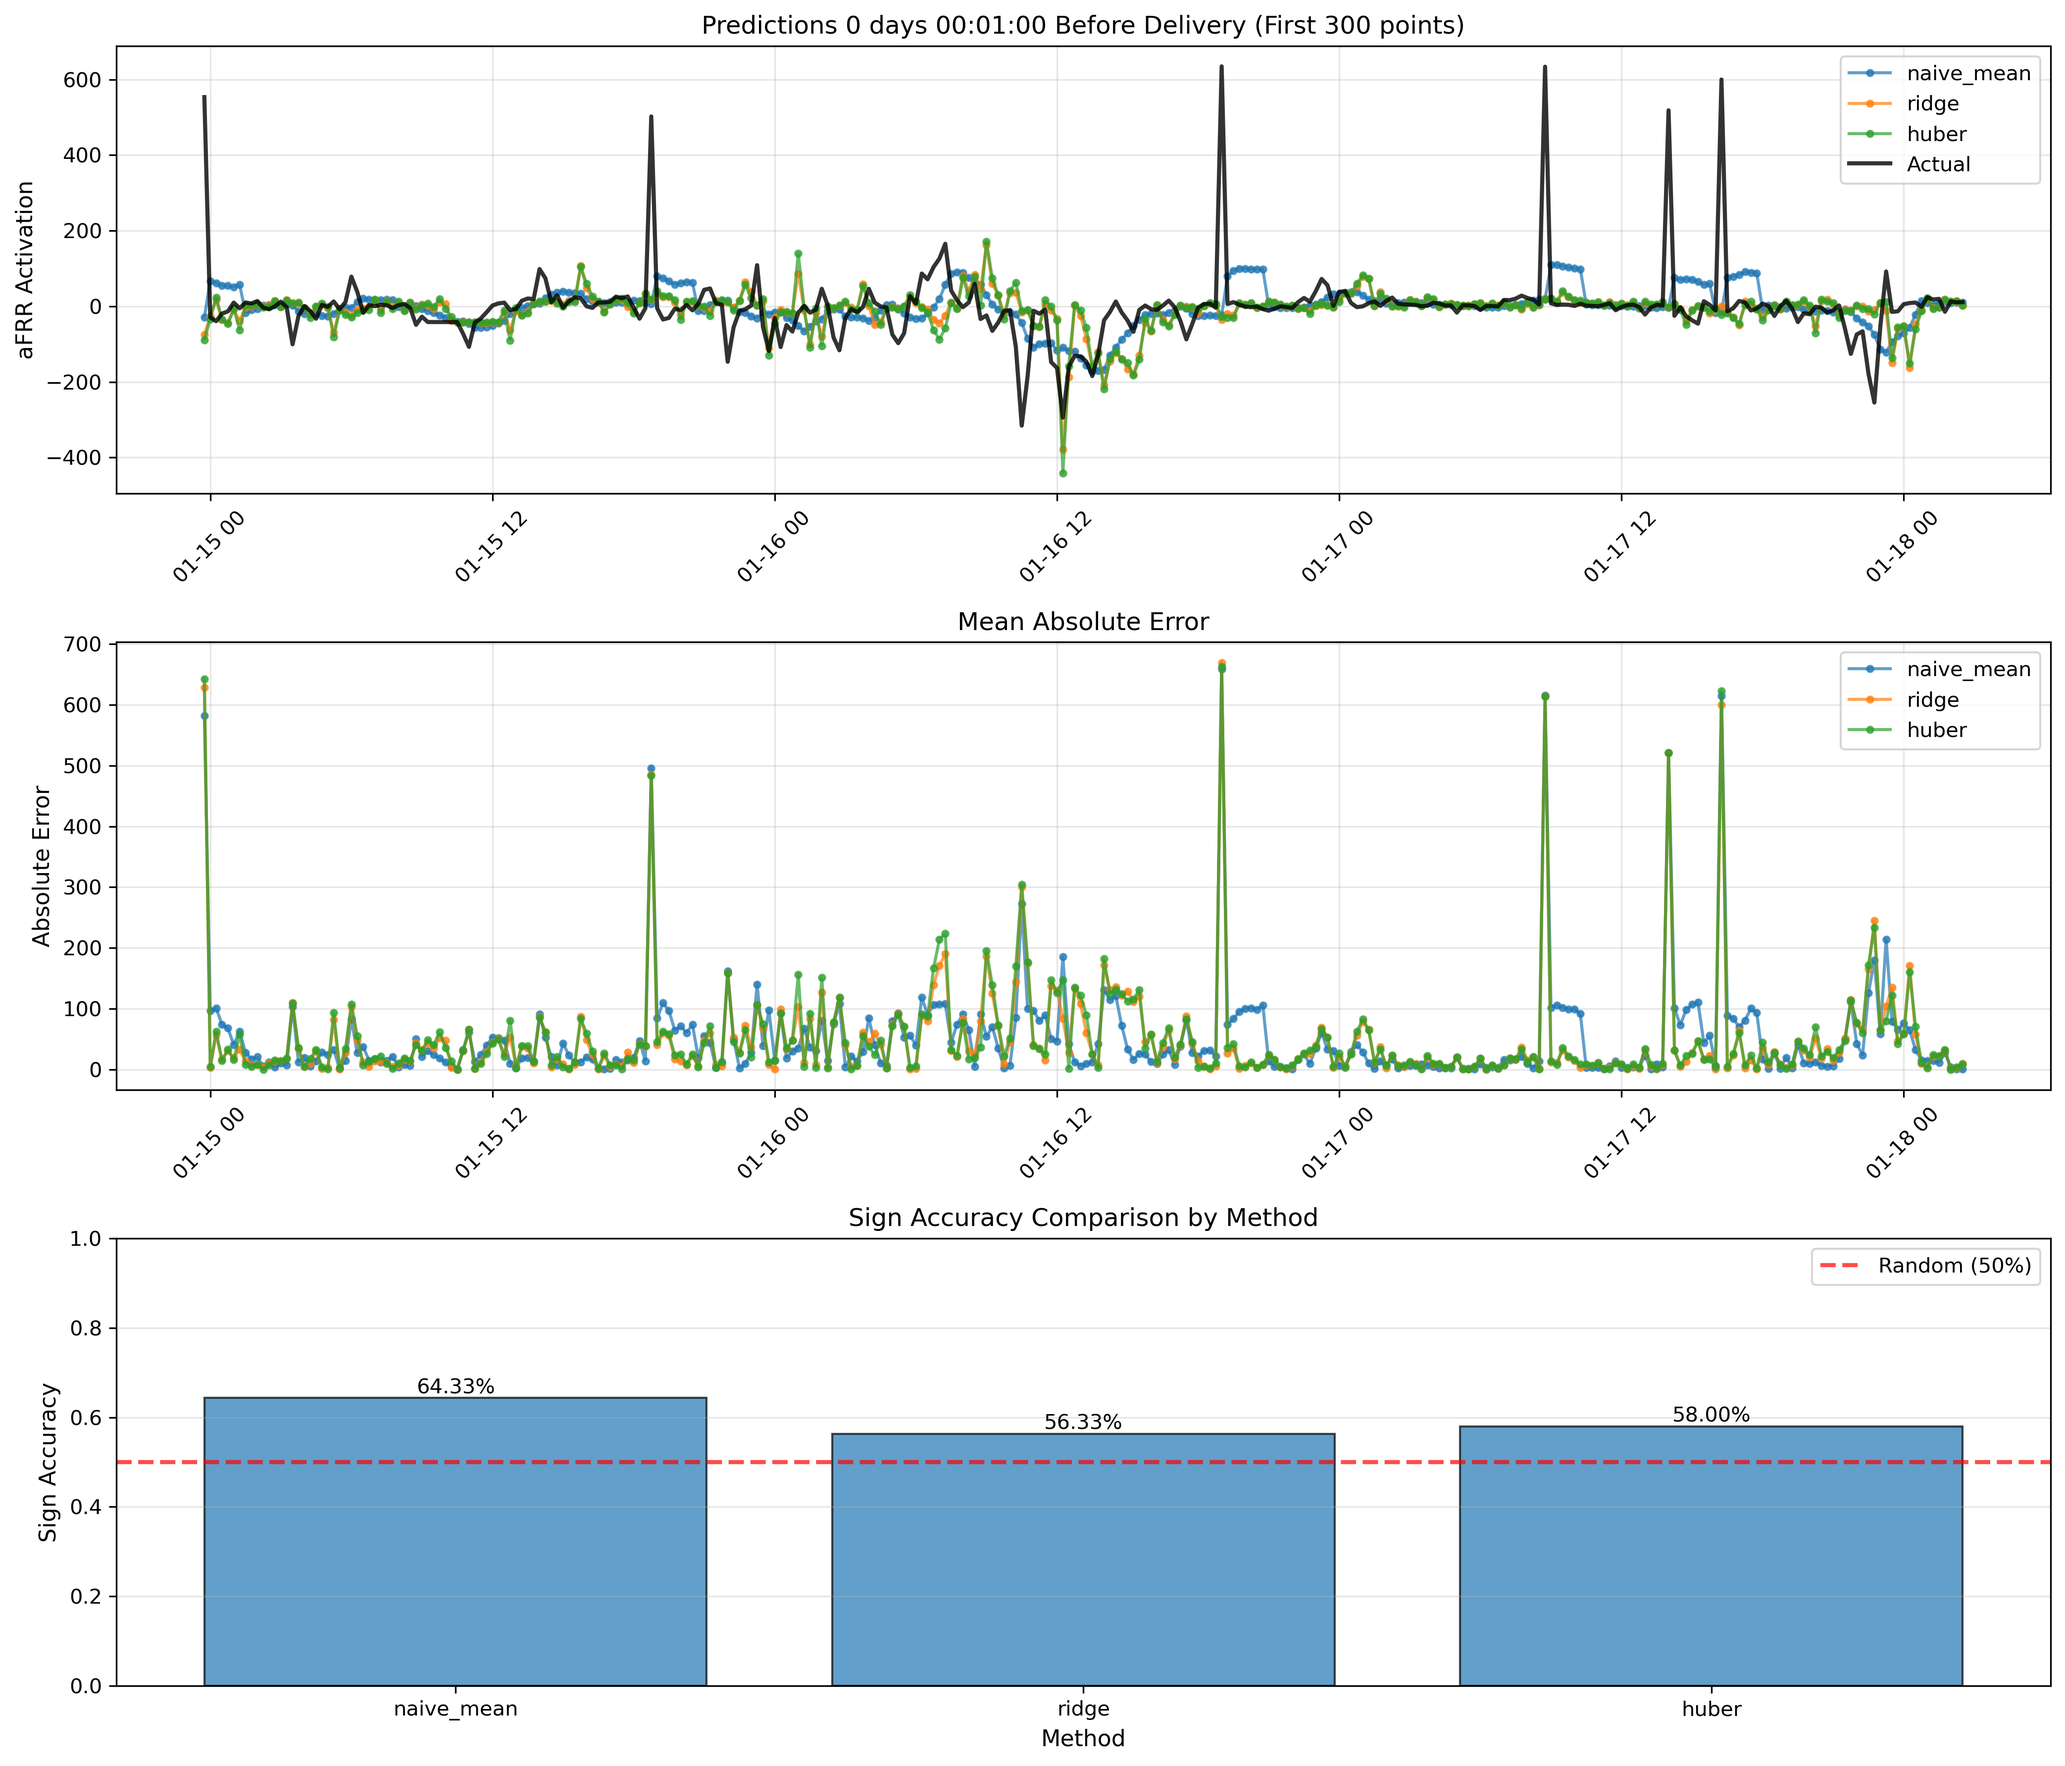
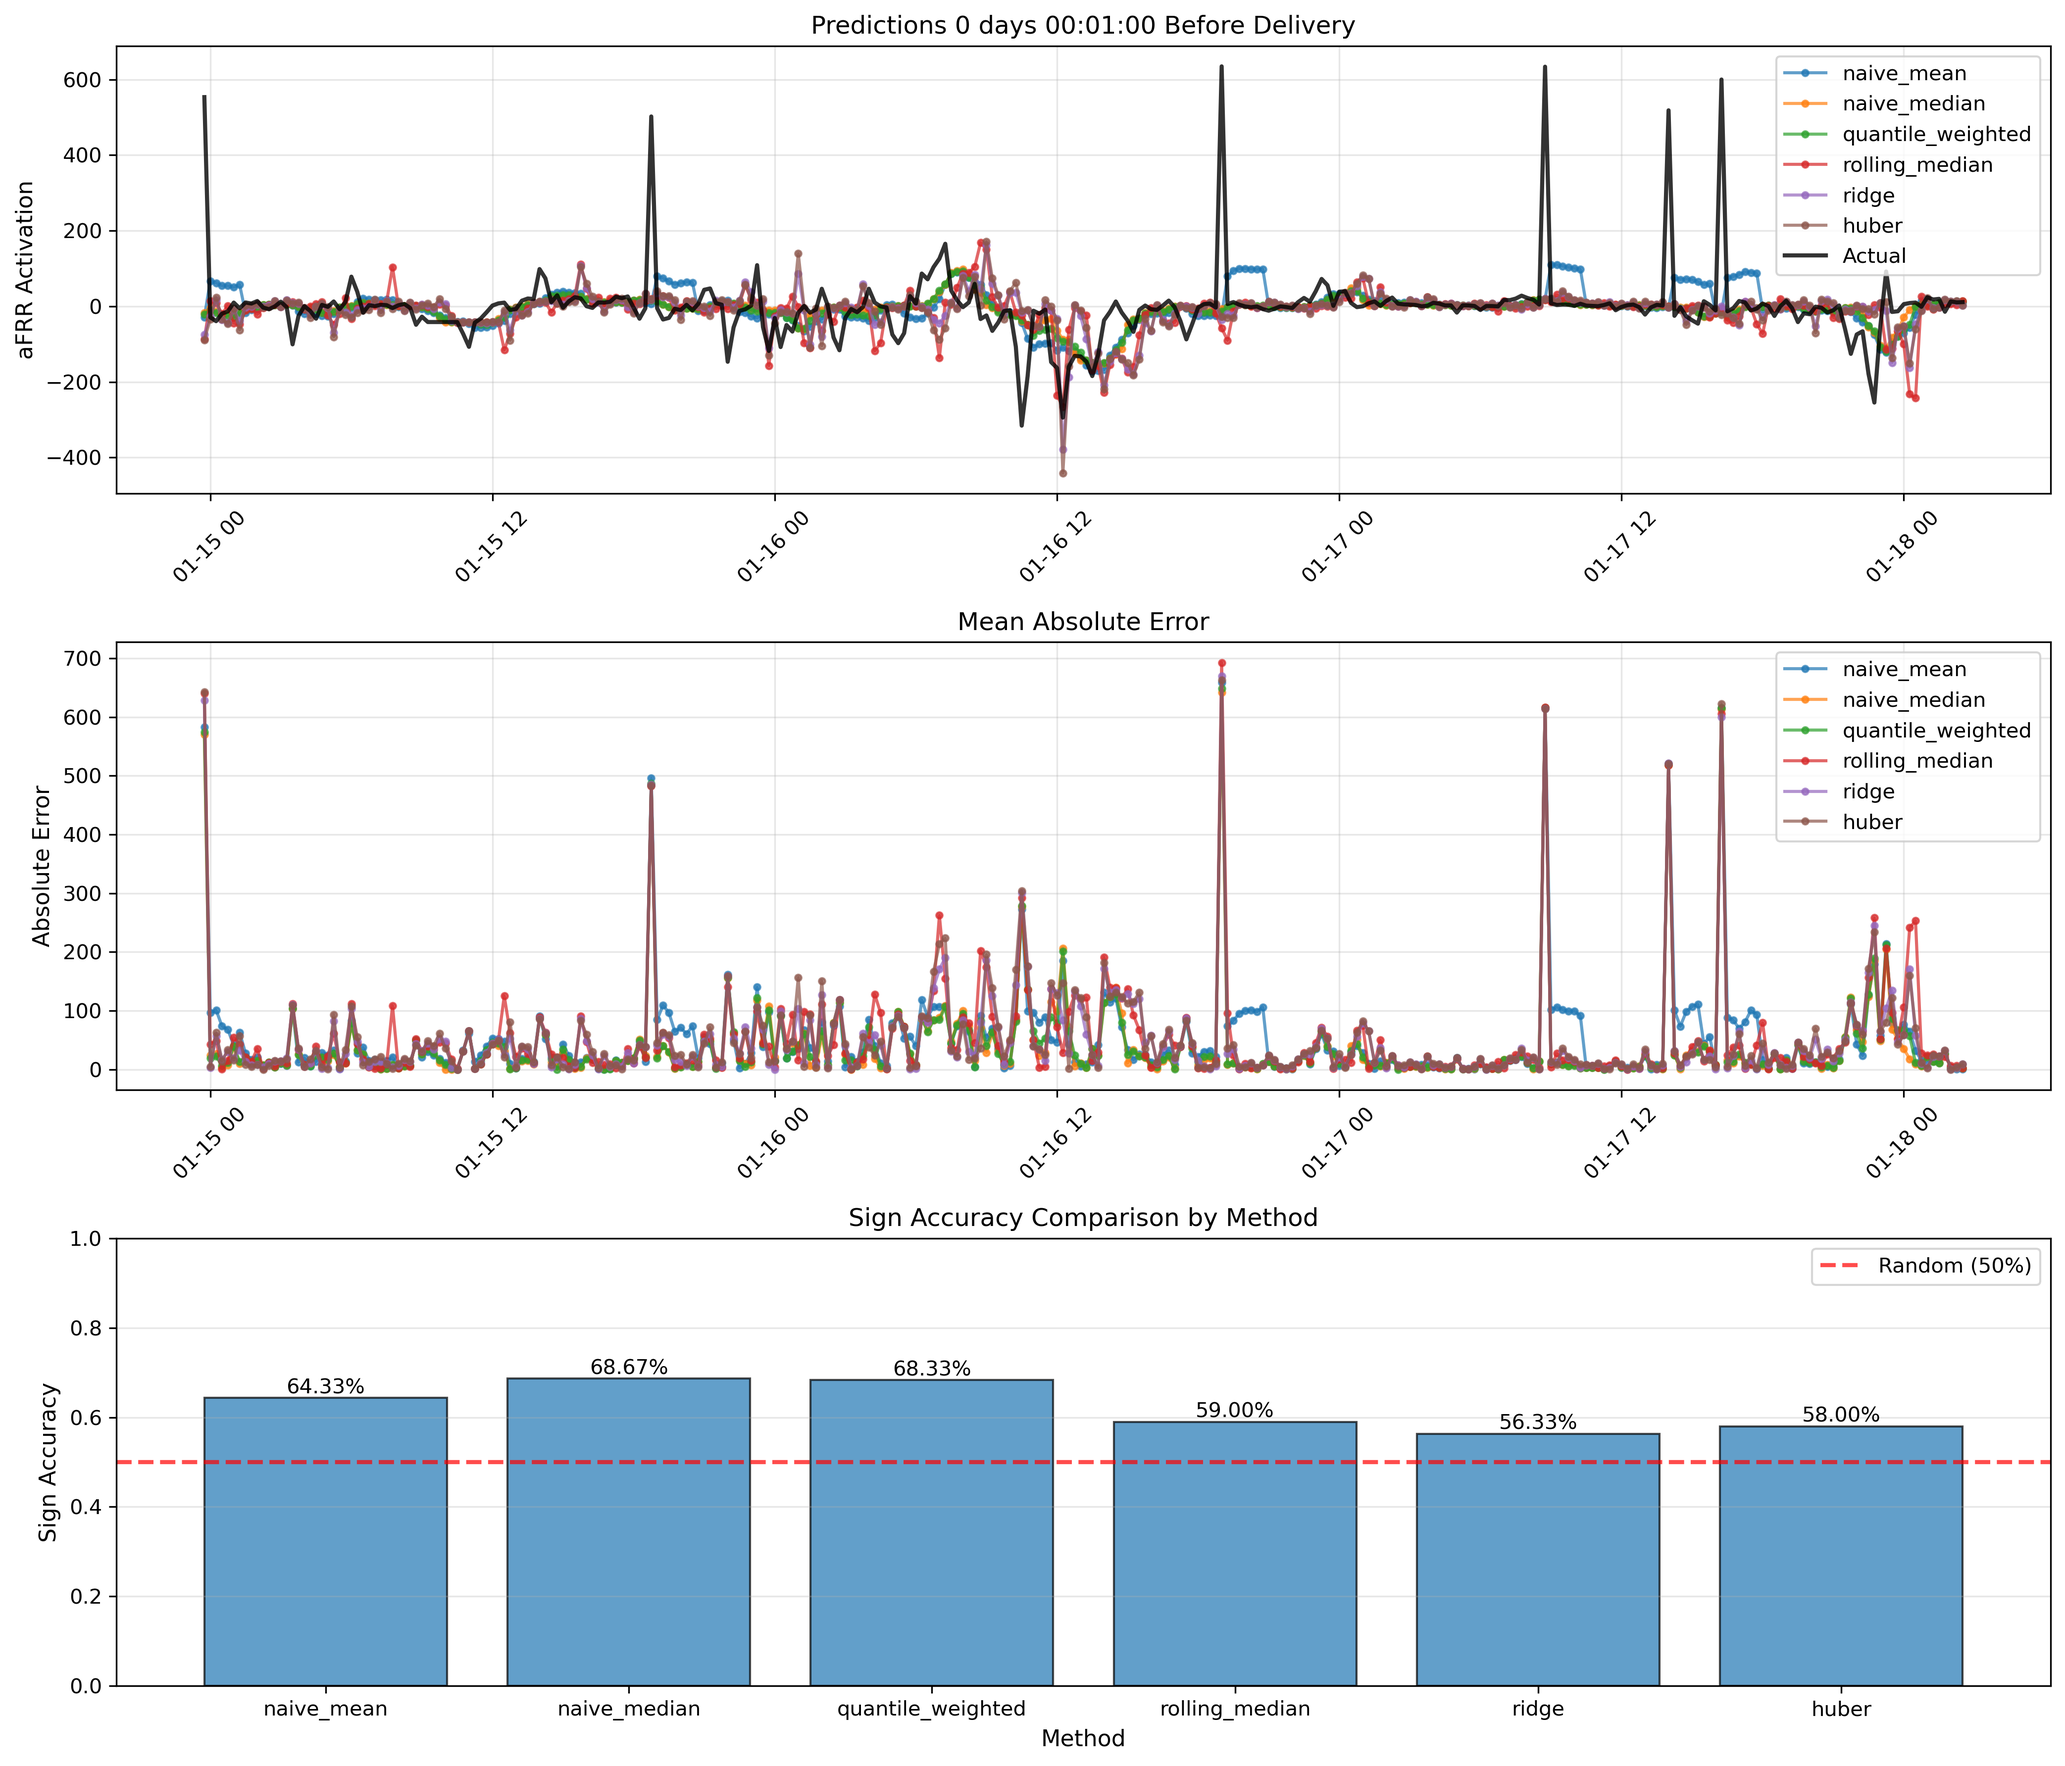
README and plot labels updated

diff --git a/example/models/utils.py b/example/models/utils.py
@@ -59,7 +59,7 @@ def plot_residual_diagnostics(results: dict, methods: list = None, max_lags: int
         axes[0, idx].hist(residuals, bins=50, edgecolor='black', alpha=0.7)
         axes[0, idx].set_xlabel('Residuals', fontsize=11)
         axes[0, idx].set_ylabel('Frequency', fontsize=11)
-        axes[0, idx].set_title(f'{method.capitalize()} - Residual Distribution', fontsize=12)
+        axes[0, idx].set_title(f'{method.capitalize()}', fontsize=12)
         axes[0, idx].axvline(x=0, color='red', linestyle='--', linewidth=2)
         axes[0, idx].grid(True, alpha=0.3)
         
@@ -75,7 +75,7 @@ def plot_residual_diagnostics(results: dict, methods: list = None, max_lags: int
         plot_func(residuals.dropna(), lags=max_lags, ax=axes[1, idx], alpha=0.05)
         axes[1, idx].set_xlabel('Lag', fontsize=11)
         axes[1, idx].set_ylabel(f'{corr_type}', fontsize=11)
-        axes[1, idx].set_title(f'{method.capitalize()} - Residual {corr_type}', fontsize=12)
+        axes[1, idx].set_title(f'{method.capitalize()}', fontsize=10)
         axes[1, idx].grid(True, alpha=0.3)
     
     plt.tight_layout()
@@ -124,7 +124,7 @@ def plot_forecast_comparison(results: dict, methods: list = None, n_points: int 
     axes[0].plot(closest['delivery_start'], closest['target'], 
                  'k-', linewidth=2, label='Actual', alpha=0.8)
     axes[0].set_ylabel('aFRR Activation', fontsize=11)
-    axes[0].set_title(f'Predictions {time_to_delivery} Before Delivery (First {n_points} points)', fontsize=12)
+    axes[0].set_title(f'Predictions {time_to_delivery} Before Delivery', fontsize=12)
     axes[0].legend()
     axes[0].grid(True, alpha=0.3)
     axes[0].tick_params(axis='x', rotation=45)
